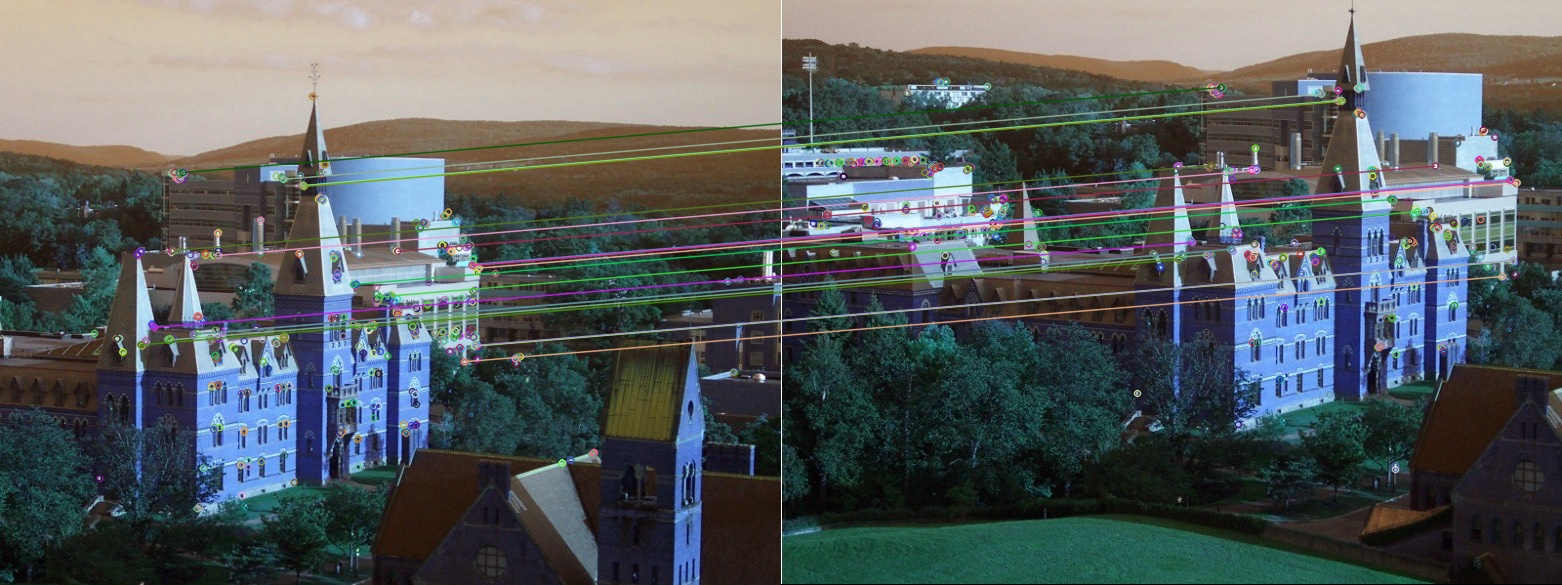
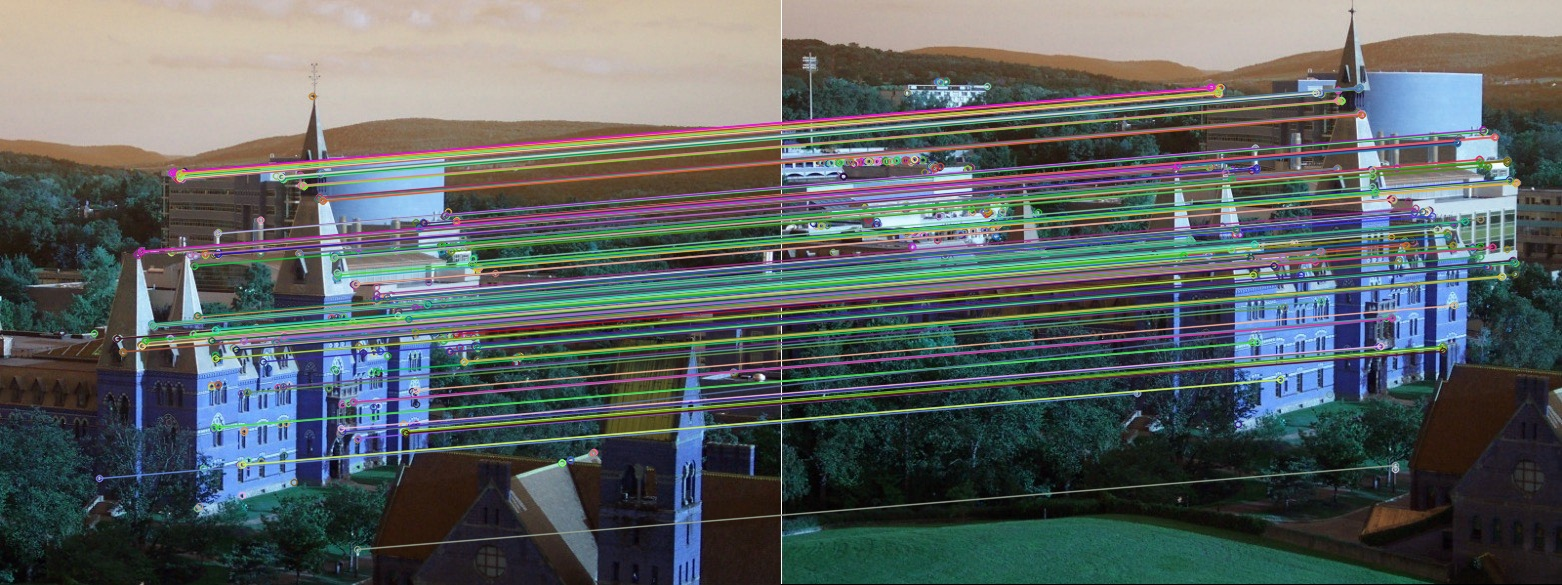
commit

diff --git a/sample-orb.py b/sample-orb.py
@@ -1,0 +1,241 @@
+#!/l/python3.5.2/bin/python3
+#
+# This is just some messy code to show you how to use the
+# ORB feature extractor.
+# D. Crandall, Feb 2022
+
+#https://stackoverflow.com/questions/39527947/how-to-calculate-score-from-orb-algorithm
+import cv2
+import numpy as np
+import math
+import matplotlib.pyplot as plt
+import glob
+import os
+
+
+images ={} 
+
+for file in glob.glob("D:/luddy_SICE/spring 22/Computer Vision/Assignments/sdabhane-sparanjp-athakulk-a2/part1-images/*.jpg"):
+   images[str(os.path.basename(file))]=cv2.imread(file)
+
+# matches = []
+# for i in images:
+#    for j in images:
+#       matches[i] = j
+#       break
+#    break
+
+
+#img = cv2.imread("D:/luddy_SICE/spring 22/Computer Vision/Assignments/sdabhane-sparanjp-athakulk-a2/part1-images/eiffel_18.jpg")
+#img1 = cv2.imread("D:/luddy_SICE/spring 22/Computer Vision/Assignments/sdabhane-sparanjp-athakulk-a2/part1-images/eiffel_19.jpg")
+
+# print(len(images))
+# print(images)
+#print(img1.shape)
+
+#for name,img in images.keys(),images.values():
+#   print(name,img)
+
+# you can increase nfeatures to adjust how many features to detect 
+#orb = cv2.ORB_create()
+
+# detect features 
+#(keypoints, descriptors) = orb.detectAndCompute(img, None)
+# print(len(keypoints))
+# print(len(descriptors))
+#(keypoints1, descriptors1) = orb.detectAndCompute(img1, None)
+# print(len(keypoints1))
+# print(len(descriptors1))
+matches=[]
+for i in images:
+   for j in images:
+      if i==j:
+         pass
+      else: 
+         orb_1 = cv2.ORB_create()
+         kp1, des1 = orb_1.detectAndCompute(images[i],None)
+         kp2, des2 = orb_1.detectAndCompute(images[j],None)
+         bf = cv2.BFMatcher()
+         matches = bf.knnMatch(des1,des2,k=2)
+         good = []
+         for m,n in matches:
+            if m.distance/n.distance<0.75:
+               good.append(m)
+         final_points={}
+         final_descriptors={}
+         for match in good:
+            query_index=match.queryIdx
+            train_index=match.trainIdx
+            final_points[kp1[query_index]]=kp2[train_index]
+            #final_descriptors[des1[query_index]]=des2[train_index]
+
+         print('final_points:',final_points)
+         print(len(final_points))
+
+
+         matches[i][j]=matches[j][i]
+         
+print('hello')
+print(len(matches))
+
+   #print('final_descriptors:',final_descriptors)
+
+# if len(keypoints)>=len(keypoints1):
+#    range_value=len(keypoints1)
+# else:
+#    range_value=len(keypoints1)
+
+# dictionary_match={}
+# dictionary_match_1={}
+# dictionary_match_2={}
+# dictionary_match_3={}
+
+# for i in range(0, len(keypoints)):
+#    dictionary_match[i]=[]
+
+# for i in range(0, len(keypoints)):
+#    dictionary_match_1[i]={}
+
+# for i in range(0, len(keypoints)):
+#    dictionary_match_2[i]={}
+
+
+# for i in range(0, len(keypoints)):
+#    for j in range(0,len(keypoints1)):
+#       ed_here=cv2.norm( descriptors[i], descriptors1[j], cv2.NORM_L2)
+#       dictionary_match_1[i][j]=ed_here
+      
+
+
+
+# for i in range(0, len(keypoints)):
+#    ed_values=dictionary_match_1[i].values()
+#    ed_values=list(ed_values)
+#    min_1=min(ed_values)
+#    index_of_min_1=ed_values.index(min_1)
+#    dictionary_match[i].append(min_1)
+#    dictionary_match_2[i][index_of_min_1]=min_1
+#    ed_values.remove(min_1)
+#    min_2=min(ed_values)
+#    index_of_min_2=ed_values.index(min_2)
+#    dictionary_match[i].append(min_2)
+#    dictionary_match_2[i][index_of_min_2]=min_2
+
+# final_matches=[]
+# final_matches_count=0
+# threshold=0.80
+# indexes_list=[]
+# #print(dictionary_match)
+# for i in range(0, len(keypoints)):
+#    ratio=dictionary_match[i][0]/dictionary_match[i][1]
+#    if ratio<threshold:
+#       indexes_list.append(i)
+#       final_matches_count+=1
+#       dictionary_match_3[i]=min(dictionary_match_2[i], key=dictionary_match_2[i].get)
+#       #dictionary_match_3[i]=dictionary_match_2[i]
+#       #dictionary_match_2[i]=dictionary_match[i][0]
+
+# #print(len(indexes_list))
+# print(dictionary_match_3)
+# print(final_matches_count)
+
+# bf = cv2.BFMatcher(cv2.NORM_HAMMING, crossCheck=True)
+# bf = cv2.BFMatcher()
+# matches = bf.knnMatch(descriptors,descriptors1,k=2)
+# print(len(matches))
+# #BFMatcher.knnMatch()
+# #matches = bf.match(descriptors,descriptors1)
+# #print(len(matches))
+# # good_matches=[]
+# # print(len(indexes_list))
+# # for i in range(0,len(indexes_list)):
+# #   good_matches.append(matches[indexes_list[i]])
+# good = [[m] for m, n in matches if m.distance < 0.75*n.distance]
+# print(len(good))
+# img3 = cv2.drawMatchesKnn(img,keypoints,img1,keypoints1,good, None, flags=cv2.DrawMatchesFlags_NOT_DRAW_SINGLE_POINTS)
+# cv2.imwrite("Finalresult4.jpg", img3)
+#print(dictionary_match_2[2])
+#print(final_matches_count)
+
+# print(descriptors[2])
+# print(descriptors1[8])
+
+#descriptor_result=[]
+#descriptor_result=np.ndarray(descriptor_result)
+# for i in indexes_list:
+#    #print(len(descriptors[i]))
+#    #np.append(descriptor_result, descriptors[i])
+#    descriptor_result.append(descriptors[i])
+
+
+#descriptor_result=np.ndarray(descriptor_result)
+#print(descriptor_result.shape)
+#print(len(descriptors[2]))
+#print(len(descriptor_result))
+#print(dictionary_match_2)
+# for i in indexes_list:
+#    print(descriptors[i])
+
+# matcher = cv2.BFMatcher()
+# matches = matcher.match(descriptors,descriptors1)
+
+#final_img = cv2.drawMatches(img, keypoints, img1, keypoints1, matches,None)
+   #print(ratio)
+# ed_here_1=cv2.norm( descriptors[0], descriptors1[0], cv2.NORM_L2)
+# print(ed_here_1)
+
+
+# for i in range(0, len(keypoints)):
+#    min_ed=100000000
+#    min_ed_index=-100
+#    for j in range(0,len(keypoints1)):
+#       ed_here=cv2.norm( descriptors[i], descriptors1[j], cv2.NORM_L2)
+#       if ed_here<min_ed:
+#          min_ed=ed_here
+#          min_ed_index=j
+#    #dictionary_match[i]=min_ed_index
+#    dictionary_match[i].append(min_ed_index)
+
+# print(dictionary_match)
+
+
+# # create BFMatcher object
+# bf = cv2.BFMatcher(cv2.NORM_HAMMING, crossCheck=True)
+# # Match descriptors.
+# matches = bf.match(descriptors,descriptors1)
+# # Sort them in the order of their distance.
+# matches = sorted(matches, key = lambda x:x.distance)
+# # Draw first 10 matches.
+# img3 = cv2.drawMatches(img,keypoints,img1,keypoints1,matches[:10],None,flags=cv2.DrawMatchesFlags_NOT_DRAW_SINGLE_POINTS)
+# plt.imshow(img3),plt.show()
+
+# # print("D1",dictionary_match)
+# # print("D2",dictionary_match_1)
+# #print(type(x))
+# # for i in range(0, len(keypoints)):
+# #    min_ed=100000000
+# #    min_ed_index=-100
+# #    for j in range(0,len(keypoints1)):
+# #       ed_here=cv2.norm( descriptors[i], descriptors[j], cv2.NORM_L2)
+# #       if ed_here<min_ed:
+# #          min_ed=ed_here
+# #          min_ed_index=j
+# #    dictionary_match[i]=min_ed_index
+# #print(dictionary_match)
+#       #print(cv2.norm( descriptors[i], descriptors[j], cv2.NORM_L2))
+#       #print("Keypoint #%d: x=%d, y=%d, descriptor=%s, distance between this descriptor and descriptor #0 is %d" % (i, keypoints[i].pt[0], keypoints[i].pt[1], np.array2string(descriptors[i]), cv2.norm( descriptors[0], descriptors[i], cv2.NORM_HAMMING)))
+
+
+# # matcher = cv2.BFMatcher()
+# # matches = matcher.match(descriptors,descriptors1)
+
+# #print(matches)
+# #put a little X on each feature
+# # for i in range(0, len(keypoints)):
+# #    #print(i)
+# #    #print("Keypoint #%d: x=%d, y=%d, descriptor=%s, distance between this descriptor and descriptor #0 is %d" % (i, keypoints[i].pt[0], keypoints[i].pt[1], np.array2string(descriptors[i]), cv2.norm( descriptors[0], descriptors[i], cv2.NORM_HAMMING)))
+# #    for j in range(-5, 5):
+# #       img[int(keypoints[i].pt[1])+j, int(keypoints[i].pt[0])+j] = 0 
+# #       img[int(keypoints[i].pt[1])-j, int(keypoints[i].pt[0])+j] = 255 
+
+# # cv2.imwrite("lincoln-orb.jpg", img)

diff --git a/sample-orb_1.py b/sample-orb_1.py
@@ -1,0 +1,77 @@
+#!/l/python3.5.2/bin/python3
+#
+# This is just some messy code to show you how to use the
+# ORB feature extractor.
+# D. Crandall, Feb 2022
+
+#https://stackoverflow.com/questions/39527947/how-to-calculate-score-from-orb-algorithm
+import cv2
+import numpy as np
+import math
+import matplotlib.pyplot as plt
+import glob
+import os
+import sys
+from sklearn.cluster import AgglomerativeClustering
+from PIL import Image, ImageOps
+from scipy.cluster.hierarchy import dendrogram
+
+print(len(sys.argv))
+images ={}
+k = int(sys.argv[2])
+arr = os.listdir(sys.argv[3])
+for i in range(len(arr)):
+    image1 = Image.open(sys.argv[3]+"\\"+arr[i])
+    image1 = np.asarray(image1)
+    images[i] = image1
+
+
+print(arr)
+print(len(arr))
+
+number_of_matches_matrix = np.zeros(shape=(len(images), len(images)))
+for i in range(len(images)):
+    for j in range(i+1, len(images)):
+        orb_1 = cv2.ORB_create()
+        kp1, des1 = orb_1.detectAndCompute(images[i],None)
+        orb_2 = cv2.ORB_create()
+        kp2, des2 = orb_2.detectAndCompute(images[j],None)
+
+        bf = cv2.BFMatcher(cv2.NORM_HAMMING,crossCheck=False)
+        #matcher = cv2.DescriptorMatcher_create(cv2.DESCRIPTOR_MATCHER_BRUTEFORCE_HAMMING)
+        matches = bf.knnMatch(des1,des2,k=2)
+        #matches = matcher.match(des1,des2)
+
+        good = []
+        for first_closest,second_closest in matches:
+            if first_closest.distance/second_closest.distance < 0.8 :
+                good.append(first_closest)
+        """
+        final_points={}
+        final_descriptors={}
+        for match in good:
+           query_index=match.queryIdx
+           train_index=match.trainIdx
+           final_points[kp1[query_index]]=kp2[train_index]
+
+        print('final_points:',final_points)
+        print(len(final_points))
+        """
+        #print(len(good))
+        number_of_matches_matrix[i][j] = len(good)
+        number_of_matches_matrix[j][i] = number_of_matches_matrix[i][j]
+
+clustering = AgglomerativeClustering(n_clusters=k).fit(number_of_matches_matrix).labels_
+print(clustering)
+print(len(clustering))
+#dendrogram(clustering, above_threshold_color='#bcbddc',orientation='top')
+
+z= zip(arr,clustering)        
+new_list=list(z)
+#print(new_list)
+#print(len(new_list))
+
+res = sorted(new_list, key = lambda x: x[1])
+print(res)
+
+

diff --git a/a2.py b/a2.py
@@ -331,7 +331,7 @@ if __name__=="__main__":
 
             try:
             #find the projective trasformation
-                matrix = transform(3,img1_p1,img1_p2,img1_p3,img1_p4,img2_p1,img2_p2,img2_p3 ,img2_p4)
+                matrix = transform(1,img1_p1,img1_p2,img1_p3,img1_p4,img2_p1,img2_p2,img2_p3 ,img2_p4)
             #print(matrix)
             except:
                 print("singular matrix. \n------ skipping-------\n")
